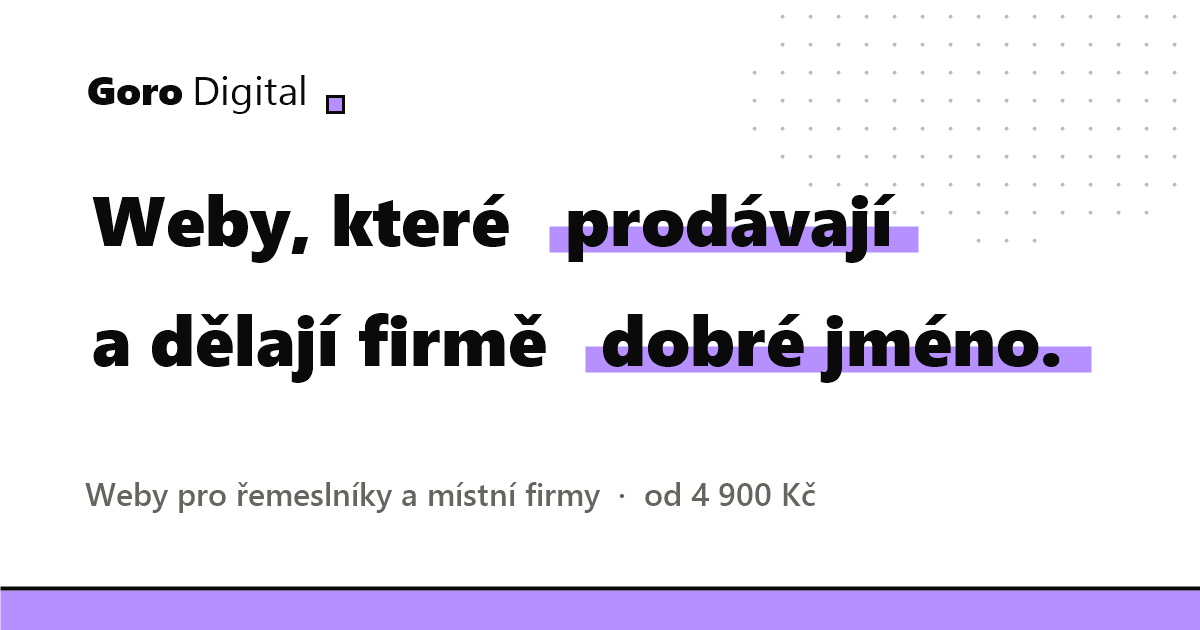
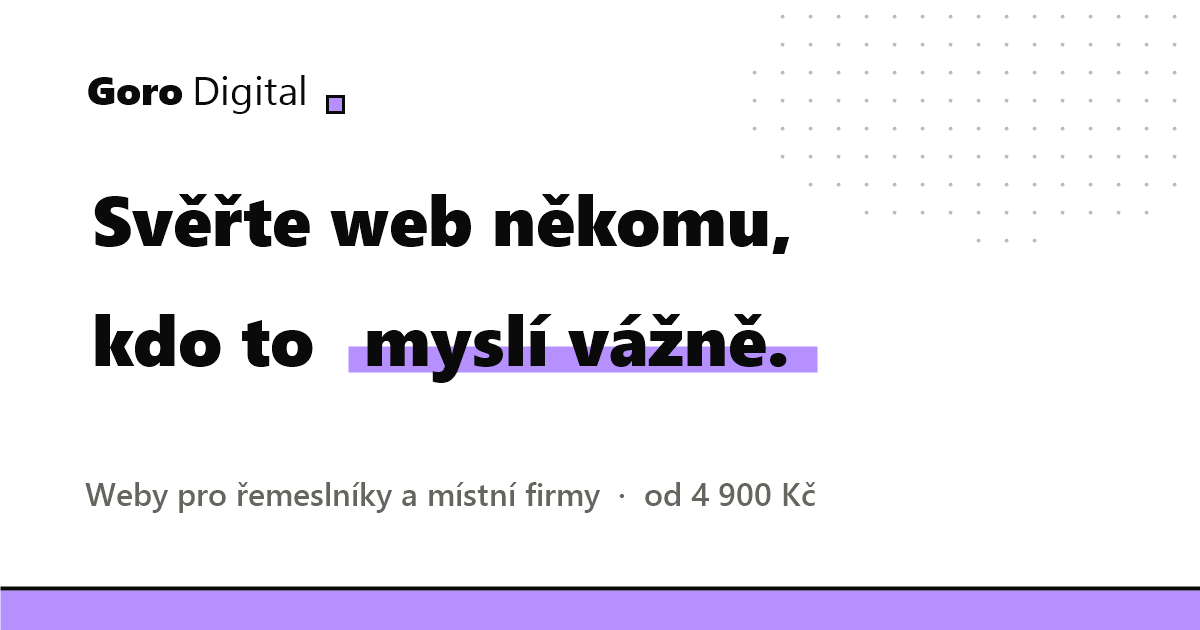
Restructure around the visitor: price first, personal voice
Reorder sections (hero, pricing, process, work, quote, about, contact),
remove marquee/services and invented stats, rewrite hero and About in the
owner's voice, refresh share image.

Changed region(s): [[0.0617, 0.4825, 0.925, 0.6032], [0.0617, 0.3016, 0.7708, 0.4222]]

diff --git a/index.html b/index.html
@@ -18,7 +18,7 @@
   <meta property="og:image" content="https://gorodigital.kontakt-gorodigital.workers.dev/og-image.png">
   <meta property="og:image:width" content="1200">
   <meta property="og:image:height" content="630">
-  <meta property="og:image:alt" content="GoroDigital – weby, které prodávají a dělají firmě dobré jméno">
+  <meta property="og:image:alt" content="GoroDigital – Svěřte web někomu, kdo to myslí vážně">
   <meta name="twitter:card" content="summary_large_image">
   <meta name="twitter:title" content="GoroDigital – weby pro řemeslníky a místní firmy">
   <meta name="twitter:description" content="Rychlé, přehledné a moderní weby pro řemeslníky a místní firmy.">
@@ -55,10 +55,9 @@
 <header class="nav" id="nav">
   <a href="#top" class="logo" aria-label="GoroDigital">Goro<span>Digital</span><i></i></a>
   <nav class="nav__links" id="navLinks">
-    <a href="#sluzby">Služby</a>
-    <a href="#prace">Práce</a>
-    <a href="#postup">Postup</a>
     <a href="#cenik">Ceník</a>
+    <a href="#postup">Postup</a>
+    <a href="#prace">Práce</a>
     <a href="#o-mne">O mně</a>
   </nav>
   <a href="#kontakt" class="btn btn--dark btn--sm nav__cta">Nezávazná poptávka</a>
@@ -73,16 +72,16 @@
     <div class="wrap hero__grid">
       <div class="hero__text">
         <p class="eyebrow reveal"><b class="dot"></b> Přijímám nové projekty</p>
-        <h1 class="reveal">Weby, které <em>prodávají</em><br>a dělají firmě <em>dobré jméno.</em></h1>
-        <p class="lead reveal">Tvořím rychlé, přehledné a moderní weby pro řemeslníky, služby a místní firmy. Od návrhu po spuštění, bez zbytečných komplikací.</p>
+        <h1 class="reveal">Svěřte web někomu, kdo to <em>myslí vážně.</em></h1>
+        <p class="lead reveal">Dělám weby pro řemeslníky, služby a místní firmy. Web na jednu stránku od 4&nbsp;900&nbsp;Kč, hotový do 5 dnů. Bez keců, bez prostředníků, bez práce na půl.</p>
         <div class="hero__actions reveal">
-          <a href="#kontakt" class="btn btn--dark">Chci web <span class="arr">→</span></a>
-          <a href="#prace" class="btn btn--ghost">Ukázky práce</a>
+          <a href="#cenik" class="btn btn--dark">Ukázat ceník <span class="arr">↓</span></a>
+          <a href="#kontakt" class="btn btn--ghost">Napsat mi</a>
         </div>
         <ul class="hero__facts reveal">
-          <li><strong data-count="95">0</strong><small>+ skóre rychlosti<br>(Google PageSpeed)</small></li>
-          <li><strong data-count="7">0</strong><small>pracovních dní max.<br>od zadání po spuštění</small></li>
-          <li><strong data-count="100">0</strong><small>% responzivní<br>na mobilu i desktopu</small></li>
+          <li><strong>4 900 Kč</strong><small>web na jednu stránku<br>cena předem, bez příplatků</small></li>
+          <li><strong>3–7 dní</strong><small>od zadání po hotový web<br>podle balíčku</small></li>
+          <li><strong>1 člověk</strong><small>píšete přímo mně,<br>žádní prostředníci</small></li>
         </ul>
       </div>
 
@@ -102,61 +101,61 @@
             <div class="mock-cards"><div></div><div></div><div></div></div>
           </div>
         </div>
-        <div class="chip chip--a"><b>+38 %</b> poptávek</div>
-        <div class="chip chip--b"><span class="ok">✓</span> Načteno za 0,8 s</div>
+        <div class="chip chip--a"><b>0</b> prostředníků</div>
+        <div class="chip chip--b"><span class="ok">✓</span> Cena předem</div>
       </div>
     </div>
   </section>
 
-  <!-- MARQUEE -->
-  <div class="marquee" aria-hidden="true">
-    <div class="marquee__track">
-      <span>Weby pro řemeslníky</span><i>✦</i><span>Autoservisy</span><i>✦</i><span>Kadeřnictví</span><i>✦</i><span>Bistra</span><i>✦</i><span>Ordinace</span><i>✦</i><span>Lokální SEO</span><i>✦</i>
-      <span>Weby pro řemeslníky</span><i>✦</i><span>Autoservisy</span><i>✦</i><span>Kadeřnictví</span><i>✦</i><span>Bistra</span><i>✦</i><span>Ordinace</span><i>✦</i><span>Lokální SEO</span><i>✦</i>
-    </div>
-  </div>
-
-  <!-- SLUŽBY -->
-  <section class="section" id="sluzby">
+  <!-- CENÍK -->
+  <section class="section section--tint" id="cenik">
     <div class="wrap">
       <div class="head reveal">
-        <p class="kicker">01 — Služby</p>
-        <h2>Všechno, co váš web potřebuje <em>na jednom místě.</em></h2>
+        <p class="kicker">01 — Ceník</p>
+        <h2>Férové ceny, <em>jasný rozsah.</em></h2>
+        <p class="sub">Žádné „cena na dotaz“. Cena i obsah balíčku jsou tady, hned. Konzultace je zdarma a nezávazná.</p>
       </div>
-      <div class="cards">
-        <article class="card spot reveal">
-          <div class="card__ico">
-            <svg viewBox="0 0 24 24"><rect x="3" y="4" width="18" height="14" rx="2"/><path d="M8 21h8M12 18v3"/></svg>
-          </div>
-          <h3>Web na jednu stránku</h3>
-          <p>Rychlá a výstižná vizitka pro řemeslníky a menší dílny. Zákazník vás najde a hned zavolá.</p>
-          <ul><li>Tlačítko pro volání a navigaci</li><li>Otevírací doba a ceník</li><li>Fotogalerie</li></ul>
+      <div class="plans">
+        <article class="plan reveal">
+          <h3>Start <span class="alt">(Vizitka)</span></h3>
+          <p class="plan__d">Pro řemeslníky, kadeřnictví a menší dílny.</p>
+          <p class="price">4 900 <small>Kč</small></p>
+          <ul><li>Moderní jednostránkový web (One-Page)</li><li>100% responzivní zobrazení na mobilu</li><li>Tlačítko pro okamžité volání a navigaci</li><li>Otevírací doba, ceník služeb a fotogalerie</li><li>Hotovo do 3–5 pracovních dnů</li></ul>
+          <a href="#kontakt" class="btn btn--ghost btn--full">Mám zájem</a>
         </article>
-        <article class="card spot reveal">
-          <div class="card__ico">
-            <svg viewBox="0 0 24 24"><rect x="4" y="3" width="16" height="6" rx="1.5"/><rect x="4" y="11" width="7" height="10" rx="1.5"/><rect x="13" y="11" width="7" height="10" rx="1.5"/></svg>
-          </div>
-          <h3>Vícestránkový web</h3>
-          <p>Kompletní prezentace pro autoservisy, ordinace, bistra a lokální firmy včetně poptávkového formuláře.</p>
-          <ul><li>3–5 stránek na míru</li><li>Poptávkový formulář</li><li>Reference a ceník</li></ul>
+        <article class="plan plan--pop reveal">
+          <span class="badge">Doporučeno</span>
+          <h3>Standard</h3>
+          <p class="plan__d">Pro autoservisy, ordinace, bistra a lokální firmy.</p>
+          <p class="price">8 900 <small>Kč</small></p>
+          <ul><li>Vícestránkový web (3–5 stránek: Úvod, Služby, Ceník, Reference, Kontakt)</li><li>Kontaktní / poptávkový formulář na e-mail</li><li>Základní SEO pro lokální vyhledávání (Google, Seznam)</li><li>Propojení s Google Firemním profilem</li><li>Hotovo do 7 pracovních dnů</li></ul>
+          <a href="#kontakt" class="btn btn--dark btn--full">Mám zájem</a>
         </article>
-        <article class="card spot reveal">
-          <div class="card__ico">
-            <svg viewBox="0 0 24 24"><circle cx="11" cy="11" r="7"/><path d="m20 20-4-4"/></svg>
-          </div>
-          <h3>Lokální SEO</h3>
-          <p>Aby vás zákazníci z okolí našli na Googlu a Seznamu dřív než konkurenci.</p>
-          <ul><li>Základní SEO na míru</li><li>Google Firemní profil</li><li>Rychlé načítání</li></ul>
-        </article>
-        <article class="card spot reveal">
-          <div class="card__ico">
-            <svg viewBox="0 0 24 24"><path d="M12 3 4 6v6c0 4.5 3.2 8 8 9 4.8-1 8-4.5 8-9V6l-8-3z"/><path d="m9 12 2 2 4-4"/></svg>
-          </div>
-          <h3>Péče a provoz</h3>
-          <p>Hosting, zabezpečení a drobné úpravy za pevnou měsíční cenu. Vy se věnujete firmě, o web se postarám já.</p>
-          <ul><li>Hosting a SSL certifikát</li><li>Aktualizace a dohled</li><li>Úprava obsahu v ceně</li></ul>
+        <article class="plan reveal">
+          <h3>Péče &amp; Provoz <span class="alt">(Měsíčně)</span></h3>
+          <p class="plan__d">Pro všechny klienty, kteří nechtějí mít starosti.</p>
+          <p class="price">390 <small>Kč / měs.</small></p>
+          <ul><li>Rychlý a bezpečný hosting + SSL certifikát</li><li>Technický dohled a aktualizace</li><li>Drobná úprava obsahu každý měsíc v ceně (např. změna ceníku, otevírací doby, nová fotka)</li><li>Bez závazků</li></ul>
+          <a href="#kontakt" class="btn btn--ghost btn--full">Mám zájem</a>
         </article>
       </div>
+    </div>
+  </section>
+
+  <!-- POSTUP -->
+  <section class="section" id="postup">
+    <div class="wrap steps-wrap">
+      <div class="head reveal">
+        <p class="kicker">02 — Postup</p>
+        <h2>Jednoduchá spolupráce <em>bez zbytečností.</em></h2>
+        <p class="sub">Vždy víte, co se děje a kolik to bude stát.</p>
+      </div>
+      <ol class="steps">
+        <li class="reveal"><span class="n">01</span><div><h3>Seznámení</h3><p>Probereme vaši firmu, cíle a zákazníky. Domluvíme rozsah a cenu předem, bez překvapení.</p></div></li>
+        <li class="reveal"><span class="n">02</span><div><h3>Návrh</h3><p>Připravím vizuální návrh. Společně doladíme, dokud nebudete spokojeni.</p></div></li>
+        <li class="reveal"><span class="n">03</span><div><h3>Vývoj</h3><p>Návrh převedu do rychlého a čistého kódu. Průběžně ukazuji, jak web roste, bez mizení na tři týdny.</p></div></li>
+        <li class="reveal"><span class="n">04</span><div><h3>Spuštění a podpora</h3><p>Web nasadím, otestuji a předám. I potom jsem vám k ruce, kdybyste cokoli potřebovali.</p></div></li>
+      </ol>
     </div>
   </section>
 
@@ -164,7 +163,7 @@
   <section class="section section--tint" id="prace">
     <div class="wrap">
       <div class="head reveal">
-        <p class="kicker">02 — Práce</p>
+        <p class="kicker">03 — Práce</p>
         <h2>Ukázky, jak může vypadat <em>váš web.</em></h2>
         <p class="sub">Koncepty pro obory, kterým se věnuji. Reference tu přibudou po prvních spuštěných projektech.</p>
       </div>
@@ -206,23 +205,6 @@
     </div>
   </section>
 
-  <!-- POSTUP -->
-  <section class="section" id="postup">
-    <div class="wrap steps-wrap">
-      <div class="head reveal">
-        <p class="kicker">03 — Postup</p>
-        <h2>Jednoduchá spolupráce <em>bez zbytečností.</em></h2>
-        <p class="sub">Vždy víte, co se děje a kolik to bude stát.</p>
-      </div>
-      <ol class="steps">
-        <li class="reveal"><span class="n">01</span><div><h3>Seznámení</h3><p>Probereme vaši firmu, cíle a zákazníky. Domluvíme rozsah a cenu předem, bez překvapení.</p></div></li>
-        <li class="reveal"><span class="n">02</span><div><h3>Návrh</h3><p>Připravím vizuální návrh. Společně doladíme, dokud nebudete spokojeni.</p></div></li>
-        <li class="reveal"><span class="n">03</span><div><h3>Vývoj</h3><p>Návrh převedu do rychlého a čistého kódu. Průběžně ukazuji, jak web roste.</p></div></li>
-        <li class="reveal"><span class="n">04</span><div><h3>Spuštění a podpora</h3><p>Web nasadím, otestuji a předám. I potom jsem vám k ruce, kdybyste cokoli potřebovali.</p></div></li>
-      </ol>
-    </div>
-  </section>
-
   <!-- CITÁT -->
   <section class="quote">
     <div class="wrap">
@@ -234,41 +216,6 @@
     </div>
   </section>
 
-  <!-- CENÍK -->
-  <section class="section section--tint" id="cenik">
-    <div class="wrap">
-      <div class="head reveal">
-        <p class="kicker">04 — Ceník</p>
-        <h2>Férové ceny, <em>jasný rozsah.</em></h2>
-        <p class="sub">Pevné ceny předem, žádné skryté poplatky. Nezávazná konzultace zdarma.</p>
-      </div>
-      <div class="plans">
-        <article class="plan reveal">
-          <h3>Start <span class="alt">(Vizitka)</span></h3>
-          <p class="plan__d">Pro řemeslníky, kadeřnictví a menší dílny.</p>
-          <p class="price">4 900 <small>Kč</small></p>
-          <ul><li>Moderní jednostránkový web (One-Page)</li><li>100% responzivní zobrazení na mobilu</li><li>Tlačítko pro okamžité volání a navigaci</li><li>Otevírací doba, ceník služeb a fotogalerie</li><li>Hotovo do 3–5 pracovních dnů</li></ul>
-          <a href="#kontakt" class="btn btn--ghost btn--full">Mám zájem</a>
-        </article>
-        <article class="plan plan--pop reveal">
-          <span class="badge">Doporučeno</span>
-          <h3>Standard</h3>
-          <p class="plan__d">Pro autoservisy, ordinace, bistra a lokální firmy.</p>
-          <p class="price">8 900 <small>Kč</small></p>
-          <ul><li>Vícestránkový web (3–5 stránek: Úvod, Služby, Ceník, Reference, Kontakt)</li><li>Kontaktní / poptávkový formulář na e-mail</li><li>Základní SEO pro lokální vyhledávání (Google, Seznam)</li><li>Propojení s Google Firemním profilem</li><li>Hotovo do 7 pracovních dnů</li></ul>
-          <a href="#kontakt" class="btn btn--dark btn--full">Mám zájem</a>
-        </article>
-        <article class="plan reveal">
-          <h3>Péče &amp; Provoz <span class="alt">(Měsíčně)</span></h3>
-          <p class="plan__d">Pro všechny klienty, kteří nechtějí mít starosti.</p>
-          <p class="price">390 <small>Kč / měs.</small></p>
-          <ul><li>Rychlý a bezpečný hosting + SSL certifikát</li><li>Technický dohled a aktualizace</li><li>Drobná úprava obsahu každý měsíc v ceně (např. změna ceníku, otevírací doby, nová fotka)</li><li>Bez závazků</li></ul>
-          <a href="#kontakt" class="btn btn--ghost btn--full">Mám zájem</a>
-        </article>
-      </div>
-    </div>
-  </section>
-
   <!-- O MNĚ -->
   <section class="section" id="o-mne">
     <div class="wrap about">
@@ -277,11 +224,12 @@
         <div class="about__badge">Webdesign &amp; vývoj</div>
       </div>
       <div class="about__text reveal">
-        <p class="kicker">05 — O mně</p>
+        <p class="kicker">04 — O mně</p>
         <h2>Jsem Adrian. Dělám weby, <em>za kterými si stojím.</em></h2>
-        <p>Pracuji sám, takže se mnou komunikujete přímo, bez prostředníků. Mám za sebou už spoustu projektů, které se netýkaly pouze webových stránek, a tyhle zkušenosti zúročím i u vašeho webu.</p>
-        <p>Myslím si, že pěkný a přehledný web je jeden z hlavních bodů, který přiláká zákazníky. Proto dělám weby rychlé, čisté a bez zbytečného šumu, stejně jako je tahle stránka.</p>
-        <ul class="ticks"><li>Přímá komunikace bez prostředníků</li><li>Zkušenosti z mnoha různých projektů</li><li>Pevná cena dohodnutá předem</li></ul>
+        <p>Pracuji sám a nedělám nic napůl. Když do něčeho jdu, jdu do toho naplno a s „dostatečným“ se nesmířím. Web, který vám předám, musí být takový, za který bych se nestyděl ani já.</p>
+        <p>Mám za sebou řadu projektů, které se netýkaly jen webů. Dělal jsem třeba hru, kterou jsem odprezentoval s kamarády. Pěkný a přehledný web je podle mě jedna z hlavních věcí, která přiláká zákazníky, a tak ho také dělám.</p>
+        <p>Když jde o váš web, jsem vážný. Při kávě se ale smát dá.</p>
+        <ul class="ticks"><li>Nedělám nic napůl</li><li>Přímá komunikace bez prostředníků</li><li>Pevná cena dohodnutá předem</li></ul>
       </div>
     </div>
   </section>
@@ -291,7 +239,7 @@
     <div class="wrap">
       <div class="contact__box">
         <div class="contact__side reveal">
-          <p class="kicker kicker--light">06 — Kontakt</p>
+          <p class="kicker kicker--light">05 — Kontakt</p>
           <h2>Pojďme postavit <em>váš web.</em></h2>
           <p>Napište pár vět o projektu. Ozvu se do 24 hodin s nezávaznou nabídkou.</p>
           <ul class="contact__list">
@@ -323,7 +271,7 @@
   <div class="wrap footer__in">
     <a href="#top" class="logo">Goro<span>Digital</span><i></i></a>
     <p>© <span id="year"></span> GoroDigital. Všechna práva vyhrazena.</p>
-    <a href="#top" class="totop">Nahoru ↑</a>
+    <a href="#top" class="totop">Zpět na start ↑</a>
   </div>
 </footer>
 

diff --git a/styles.css b/styles.css
@@ -64,7 +64,7 @@ h1{font-family:var(--display);font-size:clamp(2.6rem,6.2vw,5.3rem);line-height:1
 .lead{margin-top:26px;font-size:1.2rem;color:var(--muted);max-width:520px}
 .hero__actions{display:flex;flex-wrap:wrap;gap:14px;margin-top:36px}
 .hero__facts{display:flex;gap:40px;margin-top:56px;padding-top:28px;border-top:2px solid var(--ink)}
-.hero__facts strong{font-family:var(--display);font-size:2.6rem;letter-spacing:-.05em;font-weight:800;display:block;line-height:1}
+.hero__facts strong{font-family:var(--display);font-size:1.9rem;white-space:nowrap;letter-spacing:-.05em;font-weight:800;display:block;line-height:1}
 .hero__facts small{display:block;margin-top:8px;color:var(--muted);font-size:.82rem;line-height:1.35}
 
 /* BROWSER MOCK */
@@ -270,7 +270,11 @@ h2{font-family:var(--display);font-size:clamp(2.1rem,4.4vw,3.6rem);line-height:1
   .hero{padding:120px 0 60px}
   .cards,.work{grid-template-columns:1fr}
   .hero__facts{gap:22px}
-  .hero__facts strong{font-size:2rem}
+  .hero__visual{display:none}
+  .hero{padding-bottom:40px}
+  .hero__facts{gap:16px}
+  .hero__facts strong{font-size:1.2rem}
+  .hero__facts small{font-size:.74rem}
   .steps li{grid-template-columns:64px 1fr}
   .n{font-size:2.6rem}
   .chip--a{left:-6px}.chip--b{right:-4px}
